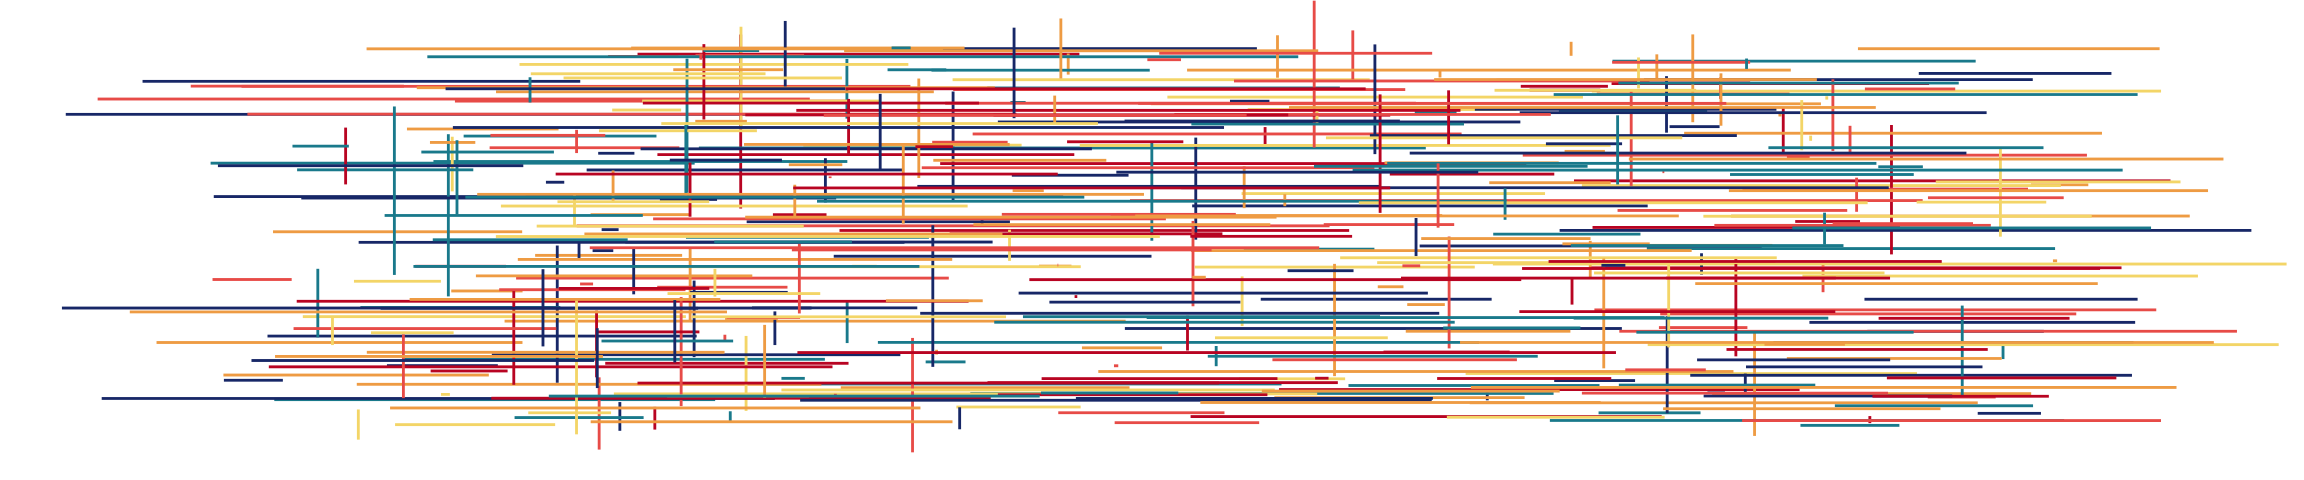
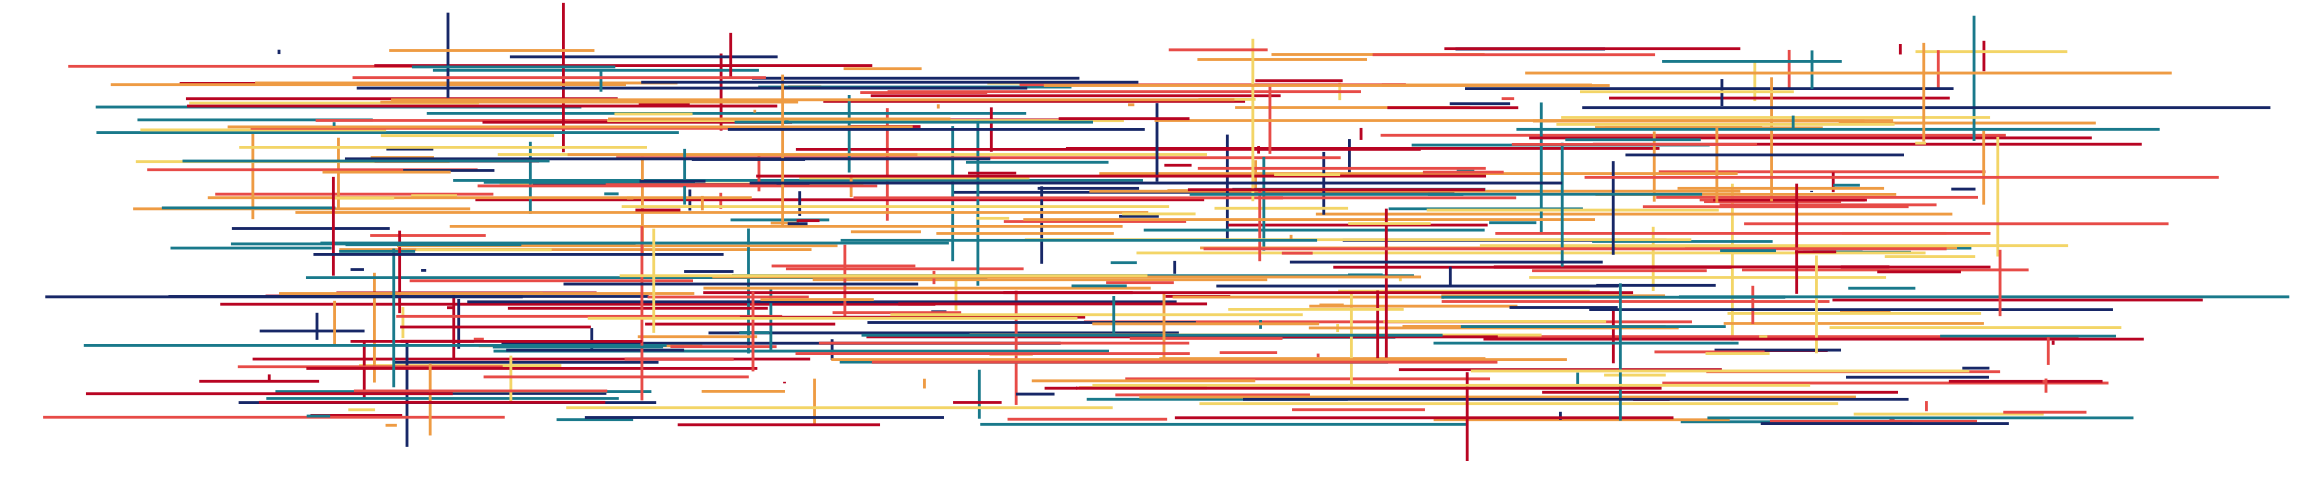
Built site for gh-pages

diff --git a/students/index.html b/students/index.html
@@ -187,8 +187,14 @@ gtag('config', 'G-25YNZL7ZML', { 'anonymize_ip': true});
 <li>Jia Wang, MSc in Statistics (IUB 2017); PhD student in Biostatistics at SUNY Buffalo</li>
 <li>Lijiang Guo, PhD Qualifier (IUB 2014); PhD student in ISE at IUB</li>
 </ul>
-<div class="cell column-screen-left">
-
+<div class="cell page-columns page-full">
+<div class="cell-output-display page-columns page-full">
+<div class="page-columns page-full">
+<figure class="figure page-columns page-full">
+<p class="page-columns page-full"><img src="index_files/figure-html/chladni-1.png" style="width:100.0%;height:2.5in" class="figure-img column-screen-left"></p>
+</figure>
+</div>
+</div>
 </div>
 </section>
 </section>

diff --git a/teaching/index.html b/teaching/index.html
@@ -165,7 +165,7 @@ Going beyond the didacticism of basic statistical literacy, I strive to inform s
 <div class="cell-output-display page-columns page-full">
 <div class="page-columns page-full">
 <figure class="figure page-columns page-full">
-<p class="page-columns page-full"><img src="index_files/figure-html/segments-1.png" style="width:100.0%;height:2.5in" class="figure-img column-screen-left"></p>
+<p class="page-columns page-full"><img src="index_files/figure-html/swirls-1.png" style="width:100.0%;height:2.5in" class="figure-img column-screen-left"></p>
 </figure>
 </div>
 </div>
